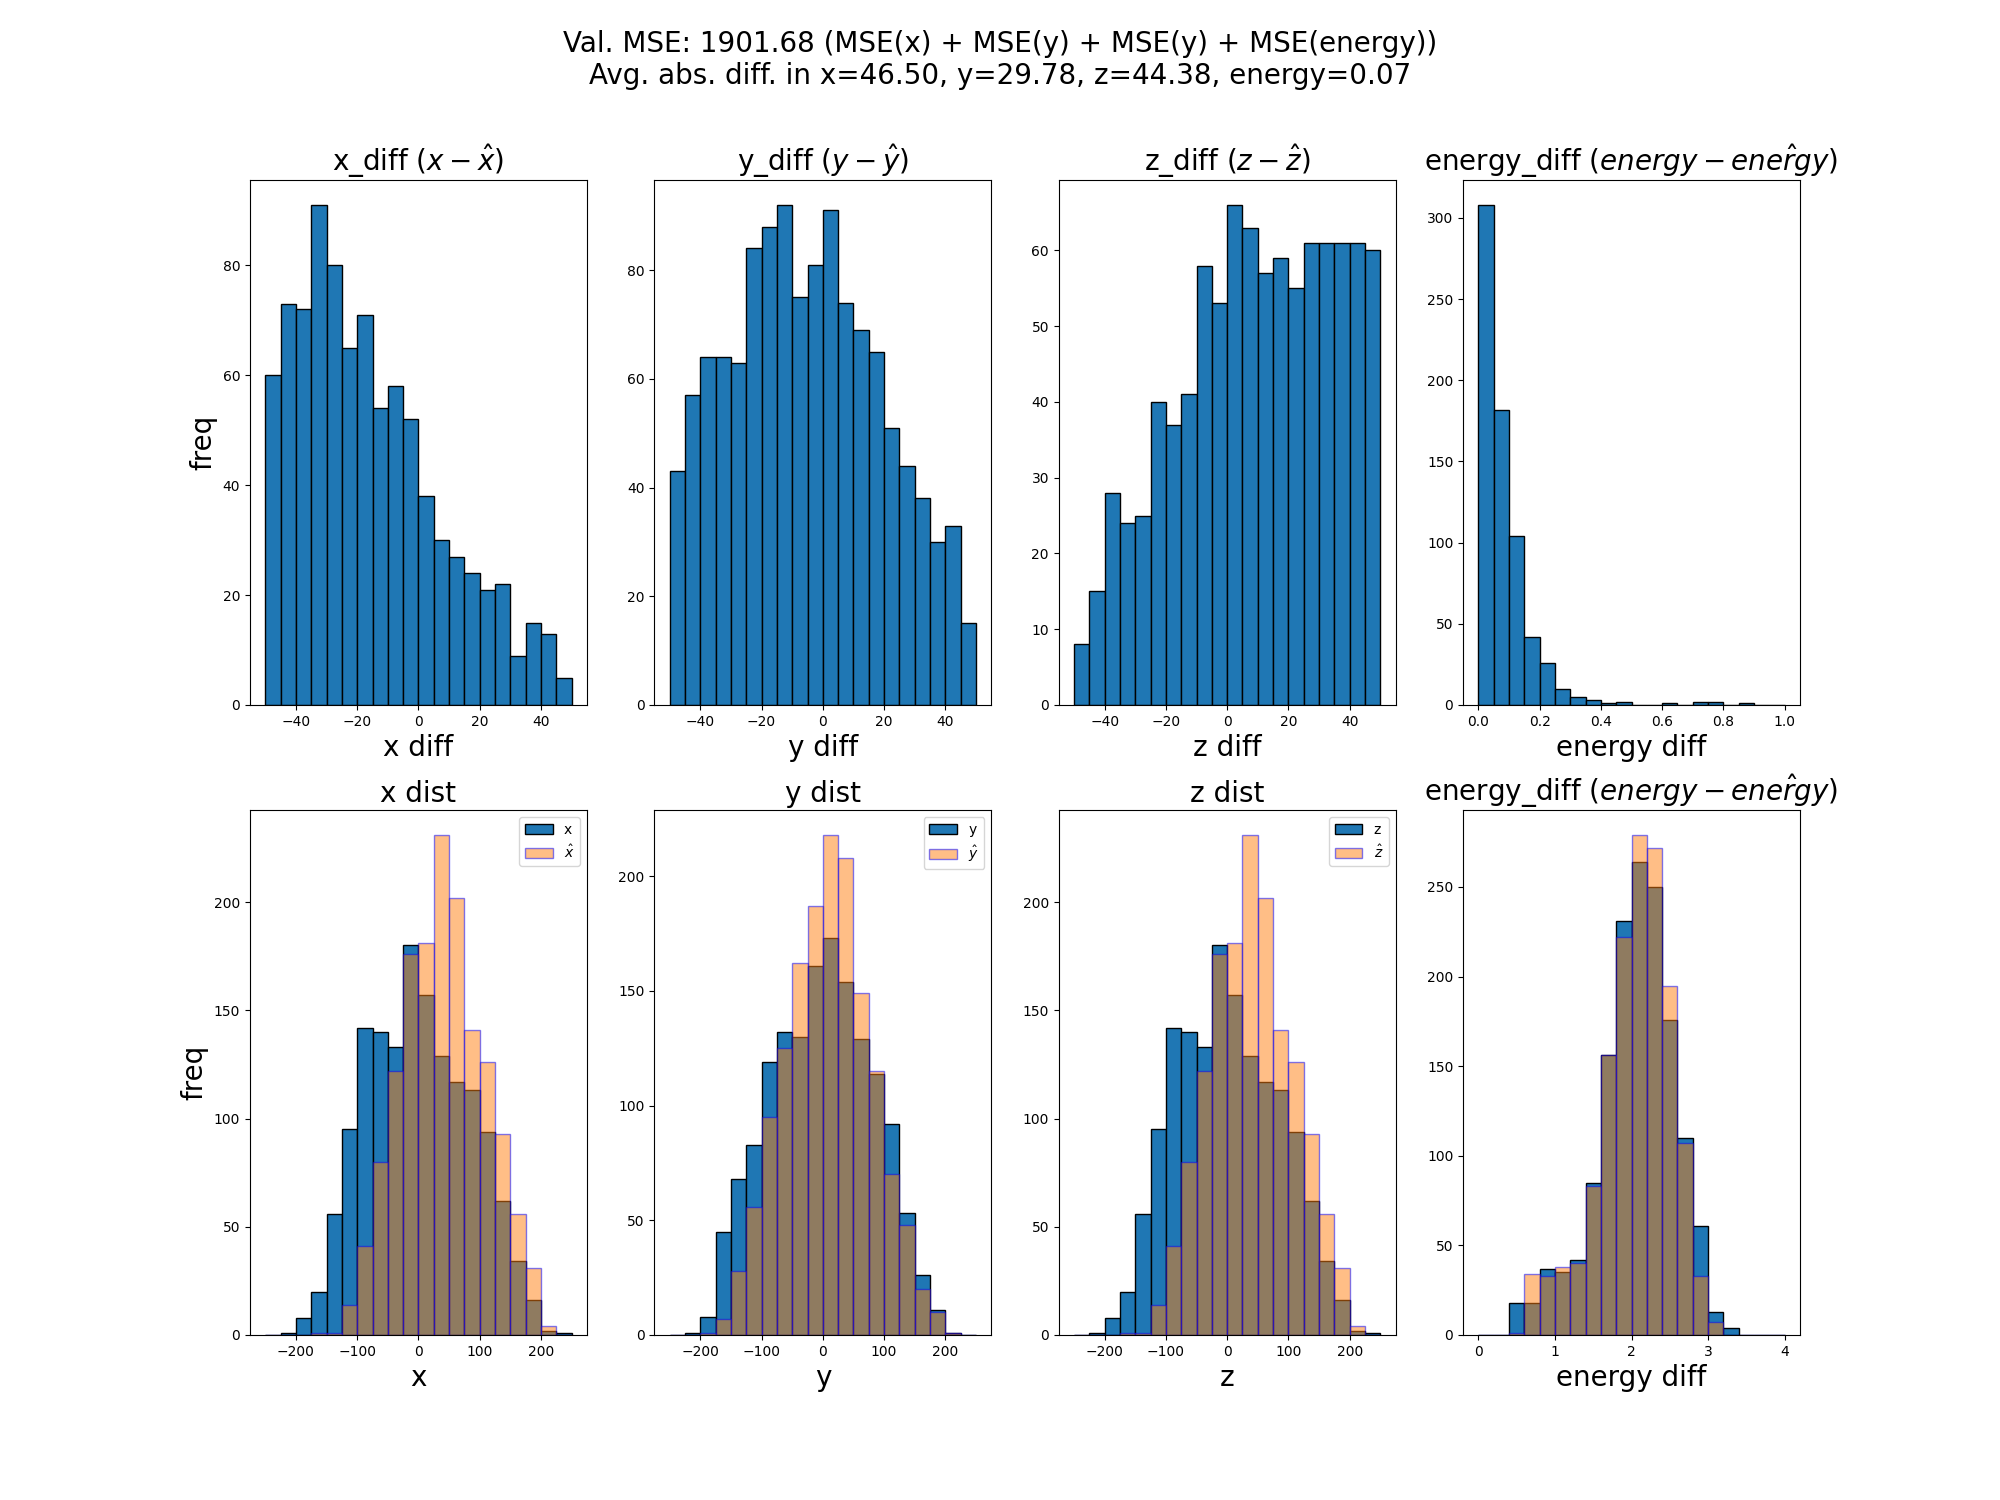
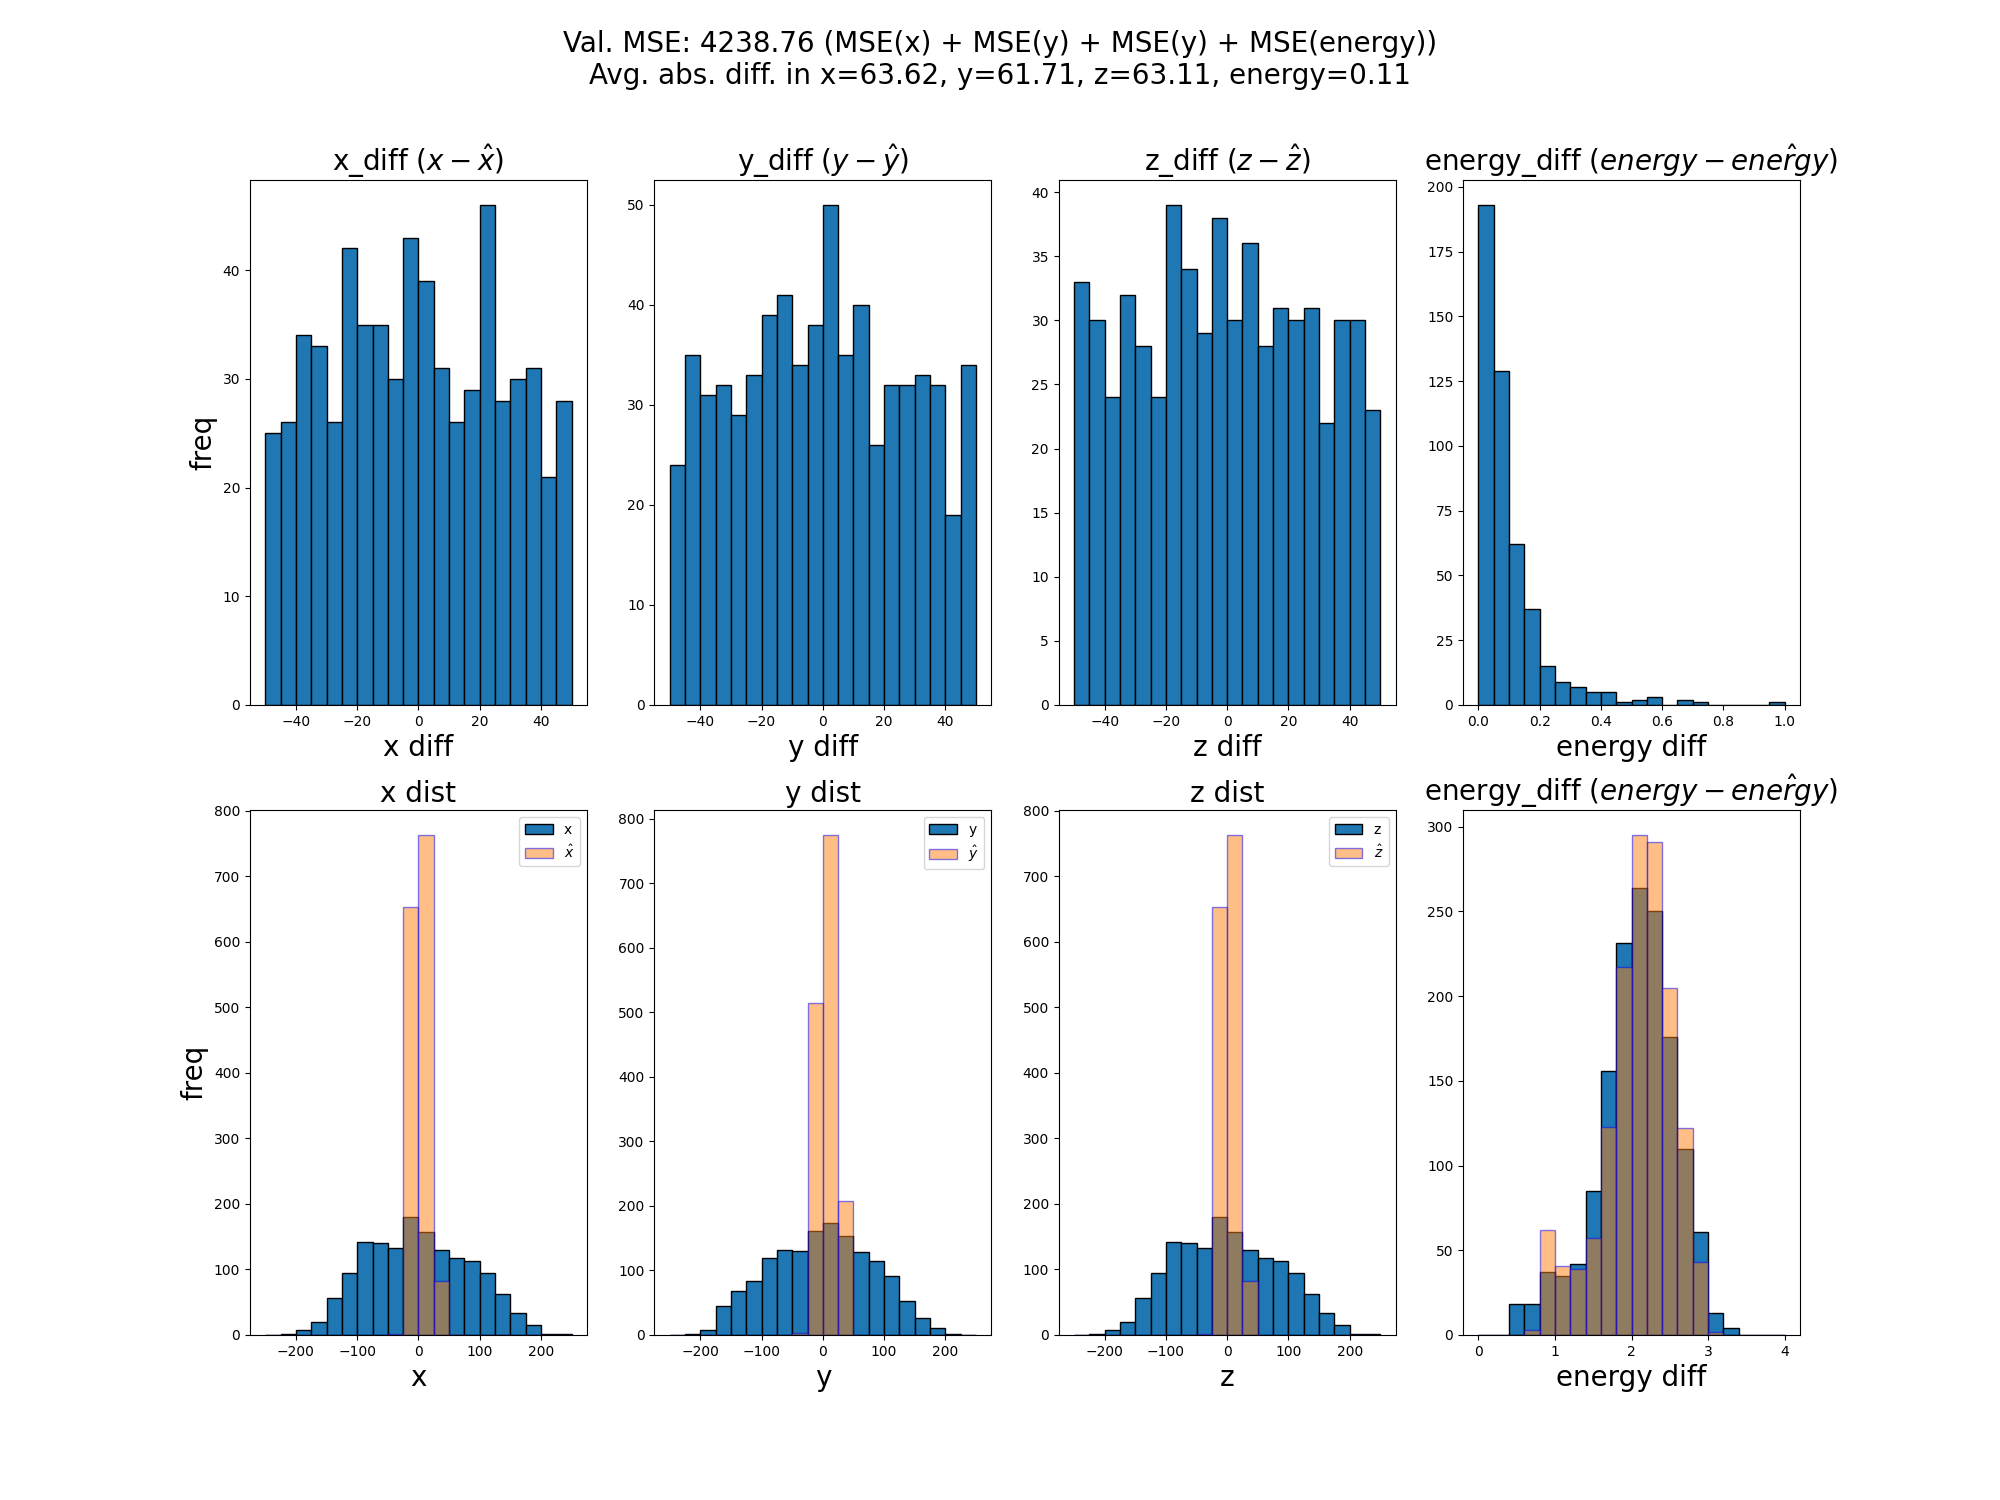
QKeras more optimization

diff --git a/train_keras.py b/train_keras.py
@@ -31,25 +31,17 @@ parser = argparse.ArgumentParser()
 parser.add_argument('--epochs', type=int, default=10)
 parser.add_argument('--lr', type=float, default=1e-3)
 parser.add_argument('--use_wandb', action="store_true")
-parser.add_argument('--reduce_lr_wait', type=int, default=20)
-parser.add_argument('--enc_dropout', type=float, default=0.2)
-parser.add_argument('--dec_dropout', type=float, default=0.2)
-parser.add_argument('--weight_decay', type=float, default=1e-2)
 parser.add_argument('--batch_size', type=int, default=128)
 parser.add_argument('--smaller_run', action="store_true")
 parser.add_argument('--dim_reduce_factor', type=float, default=2)
 parser.add_argument('--debug', action="store_true")
 parser.add_argument('--save_ver', default=0)
-parser.add_argument('--mean_only', action="store_true")
-parser.add_argument('--save_best', action="store_true")
 parser.add_argument('--seed', type=int, default=999)
-parser.add_argument('--patience', type=int, default=15)
-parser.add_argument('--xyz_label', action="store_true")
-parser.add_argument('--xyz_energy', action="store_true")
 parser.add_argument('--enc_a', type=int, default=8)
 parser.add_argument('--enc_b', type=int, default=0)
 parser.add_argument('--dec_a', type=int, default=8)
 parser.add_argument('--dec_b', type=int, default=0)
+parser.add_argument('--o_int_bits', type=int, default=0)
 gpus = tf.config.experimental.list_physical_devices('GPU')
 if gpus:
     try:
@@ -118,15 +110,14 @@ model = PointClassifier(
                 dim = tf.shape(new_X)[2],
                 dim_reduce_factor=args.dim_reduce_factor,
                 out_dim = y_tf.shape[-1],
-                enc_dropout = args.enc_dropout,
-                dec_dropout = args.dec_dropout,
                 feat_options=QBitOptions(args.enc_a, args.enc_b),
-                decoder_options=QBitOptions(args.dec_a, args.dec_b)
+                decoder_options=QBitOptions(args.dec_a, args.dec_b),
+                o_int_bits=args.o_int_bits
                 )
 epochs = range(args.epochs)
 
 # 2. Define the optimizer
-optimizer = tf.keras.optimizers.Adam(learning_rate=args.lr, beta_1=0.9, beta_2=0.999, epsilon=1e-07, amsgrad=False, weight_decay=args.weight_decay)
+optimizer = tf.keras.optimizers.Adam(learning_rate=args.lr, beta_1=0.9, beta_2=0.999, epsilon=1e-07, amsgrad=False)
 
 #model.compile(optimizer=optimizer, loss=tf.keras.losses.MeanSquaredError())
 model.compile(optimizer=optimizer)
@@ -218,8 +209,9 @@ for epoch in range(args.epochs):
         # Save best model based on validation loss
         if total_val_loss < best_val:
             best_val = total_val_loss
-            if args.save_best:
-                model.save(save_name + ".keras")
+            # if args.save_best:
+            #     model.save(save_name + ".keras")
+            print("new best found..not saving")
     
     # Log training loss
     else:
@@ -296,7 +288,6 @@ with tqdm(total=len(val_loader), mininterval=5) as pbar:
 abs_diff = tf.concat(abs_diff, axis=0)
 
 ## plot and save
-save_name = f'./cgra_pointNET_last'
 
 # plot_reg(diff=diff, dist=dist, total_val_loss=total_val_loss, abs_diff=abs_diff, save_name=save_name, args=args)
 # if args.xyz_energy:
@@ -388,7 +379,7 @@ axes[1, 0].legend()
 axes[1, 1].legend()
 axes[1, 2].legend()
 
-plt.savefig(save_name + "_hist.png")
+plt.savefig(f'./{args.save_ver}/{args.save_ver}_hist.png')
 plt.close()
 # also upload the saved image to wandb
 # wandb.log({"plot_reg": wandb.Image(save_name + "_hist.png")})

diff --git a/PointNet_merge.py b/PointNet_merge.py
@@ -8,7 +8,7 @@ class QBitOptions():
         self.a = a
         self.b = b
 
-def PointClassifier(n_hits, dim, dim_reduce_factor, out_dim, enc_dropout, dec_dropout, feat_options: QBitOptions = QBitOptions(8,0), decoder_options: QBitOptions = QBitOptions(8,0)):
+def PointClassifier(n_hits, dim, dim_reduce_factor, out_dim, feat_options: QBitOptions = QBitOptions(8,0), decoder_options: QBitOptions = QBitOptions(8,0), o_int_bits=0):
     input_points = tf.keras.Input(shape=(n_hits, dim))
 
     def process_data_with_label(x):
@@ -24,11 +24,12 @@ def PointClassifier(n_hits, dim, dim_reduce_factor, out_dim, enc_dropout, dec_dr
     # Begin PointNetfeat operations
     x = QConv1D(64, 1, activation=None, kernel_quantizer=quantized_bits(feat_options.a, feat_options.b), bias_quantizer=quantized_bits(feat_options.a, feat_options.b))(input_points)
     # x = layers.Dropout(enc_dropout)(x)
-    x = QActivation('quantized_relu(8,0)')(x)
+    x = QActivation(f'quantized_relu(8,{o_int_bits})')(x)
     x = QConv1D(int(128 / dim_reduce_factor), 1, kernel_quantizer=quantized_bits(feat_options.a, feat_options.b), bias_quantizer=quantized_bits(feat_options.a, feat_options.b))(x)
     # x = layers.Dropout(enc_dropout)(x)
-    x = QActivation('quantized_relu(8,0)')(x)
+    x = QActivation(f'quantized_relu(8,{o_int_bits})')(x)
     x = QConv1D(int(1024 / dim_reduce_factor), 1, kernel_quantizer=quantized_bits(feat_options.a, feat_options.b), bias_quantizer=quantized_bits(feat_options.a, feat_options.b))(x)
+    x = QActivation(f'quantized_relu(8,{o_int_bits})')(x)
     global_stats = layers.GlobalAveragePooling1D()(x)
     # global_stats = tf.keras.backend.sum(x, axis=1) / 2126
     # End PointNetfeat operations
@@ -36,10 +37,10 @@ def PointClassifier(n_hits, dim, dim_reduce_factor, out_dim, enc_dropout, dec_dr
     x = global_stats
     x = QDense(int(512 / dim_reduce_factor), activation='leaky_relu', kernel_quantizer=quantized_bits(decoder_options.a, decoder_options.b), bias_quantizer=quantized_bits(decoder_options.a, decoder_options.b))(x)
     # x = layers.Dropout(dec_dropout)(x)
-    # x = QActivation('quantized_relu(8,0)')(x)
+    x = QActivation(f'quantized_relu(8,{o_int_bits})')(x)
     x = QDense(int(128 / dim_reduce_factor), activation='leaky_relu', kernel_quantizer=quantized_bits(decoder_options.a, decoder_options.b), bias_quantizer=quantized_bits(decoder_options.a, decoder_options.b))(x)
     # x = layers.Dropout(dec_dropout)(x)
-    # x = QActivation('quantized_relu(8,0)')(x)
+    x = QActivation(f'quantized_relu(8,{o_int_bits})')(x)
     outputs = QDense(out_dim, kernel_quantizer=quantized_bits(decoder_options.a, decoder_options.b), bias_quantizer=quantized_bits(decoder_options.a, decoder_options.b))(x)
 
     model = models.Model(input_points, outputs)
